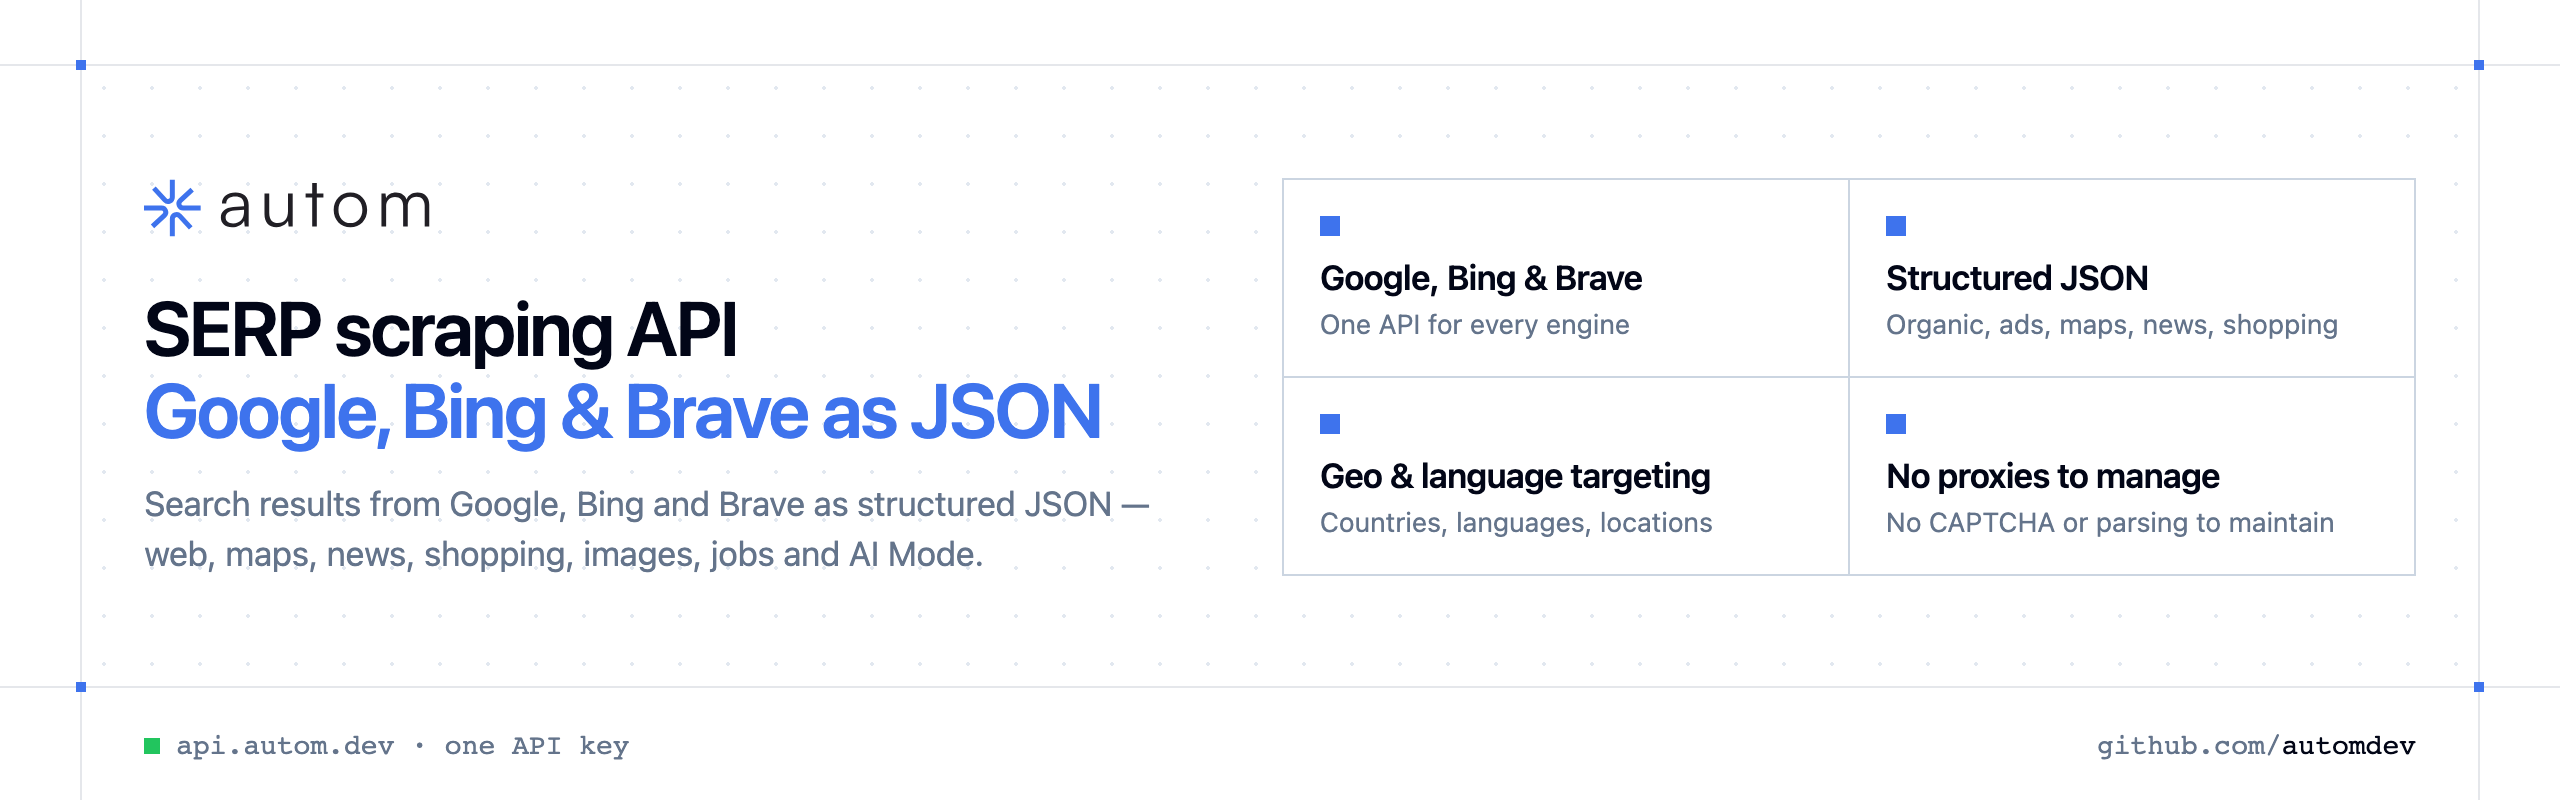
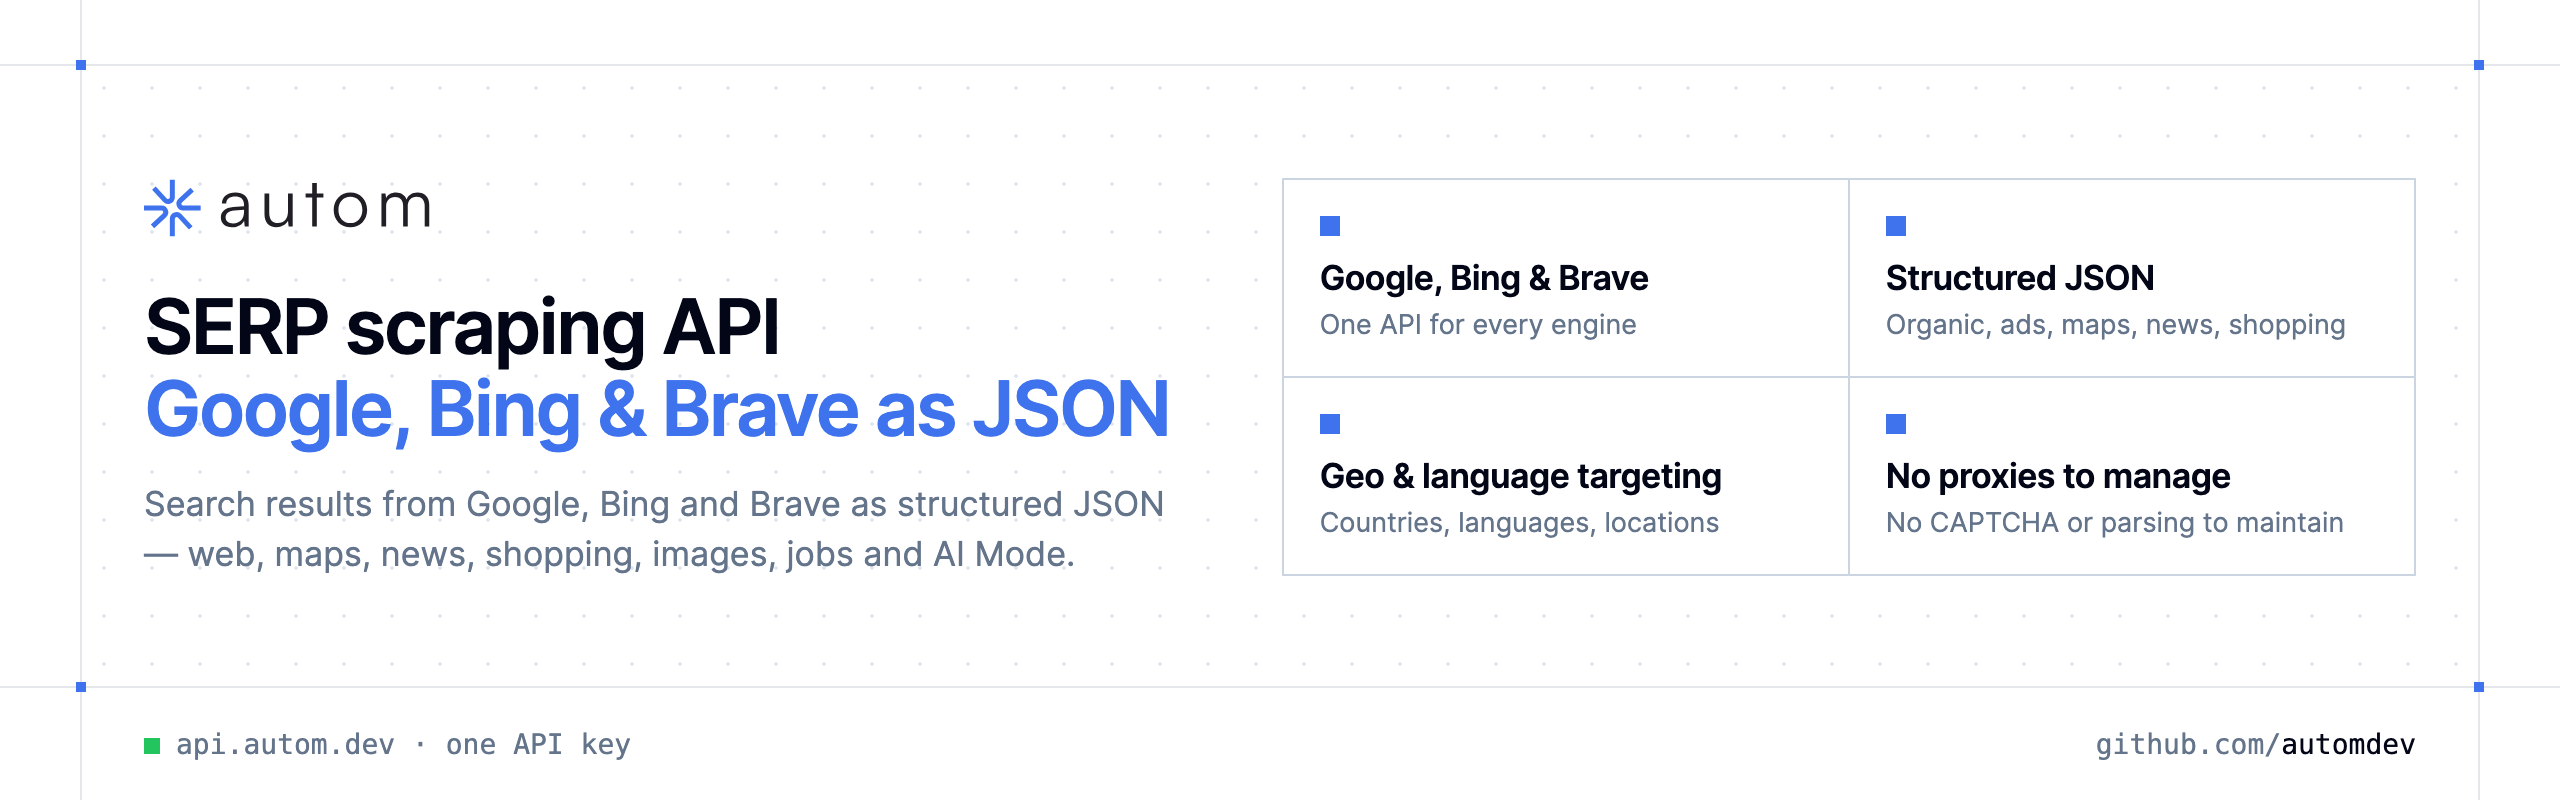
Update Autom organization profile examples and docs

diff --git a/profile/README.md b/profile/README.md
@@ -28,6 +28,7 @@ curl -G https://api.autom.dev/v1/google/search \
 
 - [**Bing Search API**](https://github.com/automdev/bing-search-api) — Bing search results as structured JSON
 - [**Brave Search API**](https://github.com/automdev/brave-search-api) — Brave web, image & video results as JSON
+- [**DuckDuckGo Search API**](https://github.com/automdev/duckduckgo-search-api) — DuckDuckGo search results as structured JSON
 - [**Google AI Mode API**](https://github.com/automdev/google-ai-mode-api) — Google AI Mode answers and sources as JSON
 - [**Google Autocomplete API**](https://github.com/automdev/google-autocomplete-api) — Google search suggestions as JSON
 - [**Google Images API**](https://github.com/automdev/google-images-api) — Google Images results as structured JSON
@@ -37,6 +38,8 @@ curl -G https://api.autom.dev/v1/google/search \
 - [**Google Search API**](https://github.com/automdev/google-search-api) — Google search results as structured JSON
 - [**Google Shopping API**](https://github.com/automdev/google-shopping-api) — Google Shopping products & prices as JSON
 - [**Google Videos API**](https://github.com/automdev/google-videos-api) — Google video results as structured JSON
+- [**Web Search API**](https://github.com/automdev/web-search-api) — One call, several search engines, first organic results
+- [**Yahoo Search API**](https://github.com/automdev/yahoo-search-api) — Yahoo search results as structured JSON
 
 ---
 
